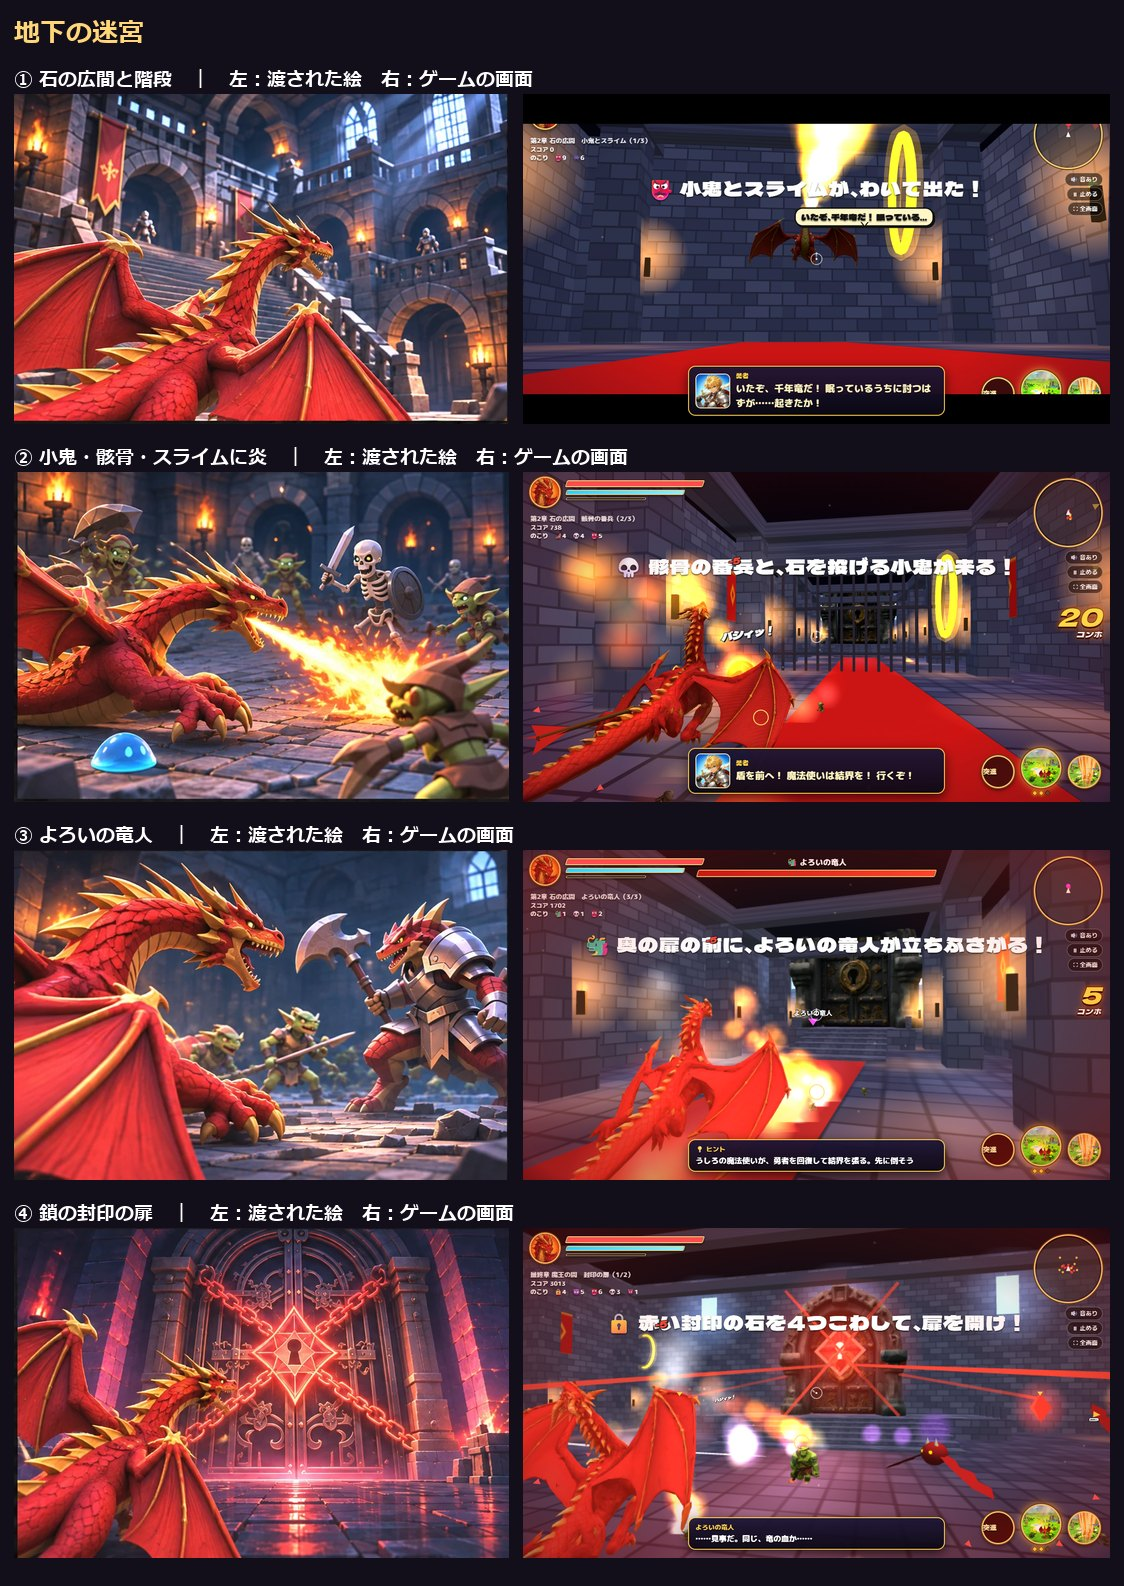
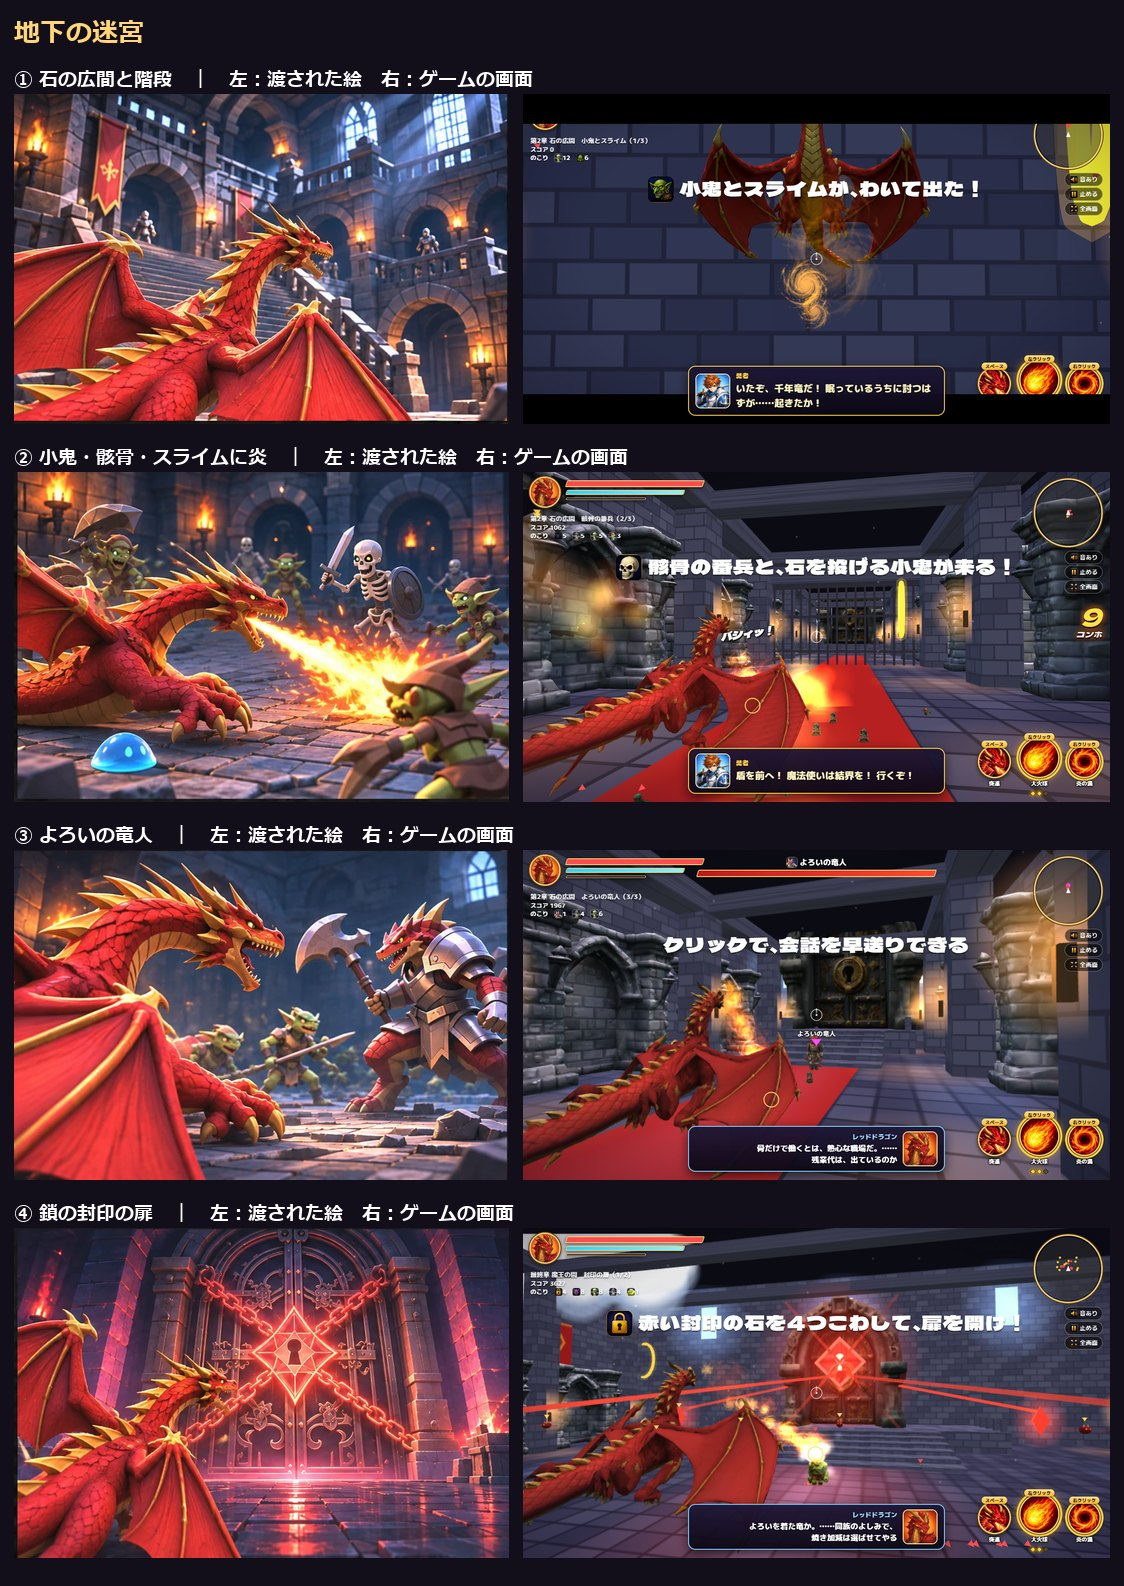
ゲームを更新

Changed region(s): [[0.4671, 0.0618, 0.9964, 0.7415], [0.4671, 0.7724, 0.9964, 0.9887]]

diff --git a/hikaku.html b/hikaku.html
@@ -18,8 +18,8 @@ small{color:#b9afcf}
 </style></head><body><main>
 <a class="back" href="./">▶ ゲームを遊ぶ</a>
 <h1>渡された絵 と ゲーム画面の見比べ</h1>
-<p><small>2026年11月15日　版 1116zf　（左：渡された絵　右：ゲームの画面）</small></p>
-<p class="lead">結論：表紙の4コマと洞窟の勇者一行は、絵と同じ向き・同じ並びで撮り直しました（11/15）。まだ届いていないのは、兵の数、敵の近さ、画面のボタンの並びです。</p>
+<p><small>2026年11月15日　版 1116zl　（左：渡された絵　右：ゲームの画面）</small></p>
+<p class="lead">結論：表紙の4コマ・洞窟の勇者一行・ワイバーン戦は、絵と同じ向き・同じ並びで撮り直しました（11/15）。谷にアーチの遺跡、広間のかべにアーチ柱を足しました。まだ届いていないのは、兵の数、敵の近さ、画面のボタンの並びです。</p>
 <div class="toc"><a href="#s1">表紙の4コマ</a><a href="#s2">勇者の一行との戦い（洞窟）</a><a href="#s3">ワイバーンとの一騎打ち</a><a href="#s4">地下の迷宮</a><a href="#s5">封印の扉の前のゴーレム戦</a><a href="#s6">魔王の間</a><a href="#s7">こわれる時のかけら（前と今）</a></div>
 <section id="s1"><h2>表紙の4コマ</h2><img src="hikaku.jpg" alt="表紙の4コマ：渡された絵とゲームの画面">
 <div class="card ok"><b>合っている所</b><ul><li>左上：城を右うしろにして、必殺技（大火球）を出す竜を前の下から見上げる。</li><li>右上：石の柱と川の谷を、金色の輪へ向かって飛ぶ。空に緑のワイバーン。</li><li>左下：岩の巨人ゴーレムの胸へ、横から炎をあびせる。うしろに石の門。</li><li>右下：兵の隊列・町・燃える城を、竜の肩ごしに見下ろす。</li></ul></div>
@@ -31,20 +31,20 @@ small{color:#b9afcf}
 <div class="card fix"><b>今回直した事</b><ul><li>一行を竜の近くに置き直し（30 → 17）、竜は低く浮いて一行の方を向いて始まるようにした。</li><li>始まりのカメラを、遠くからの望遠にした（竜が大きく映る）。</li><li>結界のカメラを勇者のすぐ横へ、飛びこみ斬りのカメラを真横へ変えた。</li><li>入口から竜までの通り道に、岩・骨を置かないようにした（3人がかくれていた）。</li></ul></div></section>
 <section id="s3"><h2>ワイバーンとの一騎打ち</h2><img src="hikaku_s3.jpg" alt="ワイバーンとの一騎打ち：渡された絵とゲームの画面">
 <div class="card ok"><b>合っている所</b><ul><li>緑のワイバーンが、土けむりを上げて低く突っこんでくる。</li><li>正面からぶつかると火花が出る。</li><li>炎を風でかわす。倒す所は真横から映る。</li></ul></div>
-<div class="card ng"><b>まだちがう所</b><ul><li>絵の④は組みあい（つかみ合い）だが、ゲームは炎をあびせて落とす。</li><li>絵は遺跡と滝のすぐそば。ゲームは開けた谷の上で戦う事が多い。</li></ul></div>
-<div class="card fix"><b>今回直した事</b><ul><li>始まりのカメラを、ワイバーンのうしろから赤い竜を見る向きにした。</li></ul></div></section>
+<div class="card ng"><b>まだちがう所</b><ul><li>絵の④は組みあい（つかみ合い）だが、ゲームは炎をあびせて落とす。</li><li>4枚とも、竜とワイバーンを遺跡の前に置いて、横からのカメラで撮った物（遊んでいる時のカメラは竜のうしろ）。</li></ul></div>
+<div class="card fix"><b>今回直した事</b><ul><li>始まりのカメラを、ワイバーンのうしろから赤い竜を見る向きにした。</li><li>谷に、アーチの遺跡（水道橋のあと）を4つ置いた（Tripo で作った。11/15）。絵にある遺跡と滝が背景に入る。</li></ul></div></section>
 <section id="s4"><h2>地下の迷宮</h2><img src="hikaku_s4.jpg" alt="地下の迷宮：渡された絵とゲームの画面">
 <div class="card ok"><b>合っている所</b><ul><li>石づくりのかべ・たいまつ・赤い旗・青い窓・階段・奥の扉がある。</li><li>小鬼・骸骨・スライム・よろいの竜人（斧）が出る。骸骨と竜人は Tripo で作った。</li><li>赤い鎖とかぎ穴の印が光る封印の扉がある。</li></ul></div>
 <div class="card ng"><b>まだちがう所</b><ul><li>絵は竜を横から見ている。ゲームは竜のななめうしろから見ている（操作のため、真横にはしていない）。</li><li>絵はアーチや手すりが細かい。ゲームのかべは平らな石づみ。</li><li>絵の敵はすぐ目の前に大きい。ゲームは少し遠い。</li></ul></div>
-<div class="card fix"><b>今回直した事</b><ul><li>迷宮を広間から通路に変え、鉄ごうしの門で区切って奥へ進む形にした。</li><li>広間の中のカメラを、竜の右肩のすぐうしろ・低い位置に寄せた（竜が左手前に大きく映る）。</li><li>小鬼・骸骨・竜人を大きくした。</li><li>扉・階段・柱にめり込まないようにした。</li></ul></div></section>
+<div class="card fix"><b>今回直した事</b><ul><li>横のかべに、アーチ柱（Tripo で作った）を柱の間ごとに並べた（11/15）。</li><li>迷宮を広間から通路に変え、鉄ごうしの門で区切って奥へ進む形にした。</li><li>広間の中のカメラを、竜の右肩のすぐうしろ・低い位置に寄せた（竜が左手前に大きく映る）。</li><li>小鬼・骸骨・竜人を大きくした。</li><li>扉・階段・柱にめり込まないようにした。</li></ul></div></section>
 <section id="s5"><h2>封印の扉の前のゴーレム戦</h2><img src="hikaku_s5.jpg" alt="封印の扉の前のゴーレム戦：渡された絵とゲームの画面">
 <div class="card ok"><b>合っている所</b><ul><li>竜が左手前、ゴーレムが封印の扉の前に立つ並びが同じ。</li><li>胸が青く光る四角い岩のゴーレム。</li></ul></div>
 <div class="card ng"><b>まだちがう所</b><ul><li>見本は体力が左上・技のボタンが右下・スティックが左下。ゲームは体力が左下で、ボタンの並びがちがう。</li><li>見本は胸の光に照準の印が出る。ゲームには無い。</li><li>見本ほど火花と岩のかけらが多くない。</li></ul></div>
-<div class="card fix"><b>今回直した事</b><ul><li>カメラを寄せて、見本と同じ「左手前に竜・正面にゴーレム」にした。</li></ul></div></section>
+<div class="card fix"><b>今回直した事</b><ul><li>カメラを寄せて、見本と同じ「左手前に竜・正面にゴーレム」にした。</li><li>横のかべにアーチ柱を並べた（11/15）。</li></ul></div></section>
 <section id="s6"><h2>魔王の間</h2><img src="hikaku_s6.jpg" alt="魔王の間：渡された絵とゲームの画面">
 <div class="card ok"><b>合っている所</b><ul><li>赤い魔法陣・階段の祭だん・かがり火・溶岩のひびの床がある。</li><li>魔王は魔法陣の前に浮かぶ。</li></ul></div>
 <div class="card ng"><b>まだちがう所</b><ul><li>見本は左右に大きな扉がある。ゲームには無い。</li><li>見本の魔王は赤い肌で大きい。ゲームの魔王は小さめで遠い。</li><li>画面の文字やボタンの並びは見本とちがう（上と同じ）。</li></ul></div>
-<div class="card fix"><b>今回直した事</b><ul><li>扉が開くと、広間を魔王の間に建てかえる形にした。カメラは広間と同じ寄せ方。</li></ul></div></section>
+<div class="card fix"><b>今回直した事</b><ul><li>扉が開くと、広間を魔王の間に建てかえる形にした。カメラは広間と同じ寄せ方。</li><li>横のかべにアーチ柱を並べた（赤い石の色に合わせた。11/15）。</li></ul></div></section>
 <section id="s7"><h2>こわれる時のかけら（前と今）</h2><img src="hikaku_deb.jpg" alt="こわれる時のかけら（前と今）：渡された絵とゲームの画面">
 <div class="card ok"><b>合っている所</b><ul><li>家・かべがこわれると、折れた木材・屋根がわら・石づみのかけらが飛ぶ（Tripo で3つ作った）。</li></ul></div>
 <div class="card ng"><b>まだちがう所</b><ul><li>同時に出すのは40個まで。それをこえた分は、今までの四角い箱で出る。</li></ul></div>
